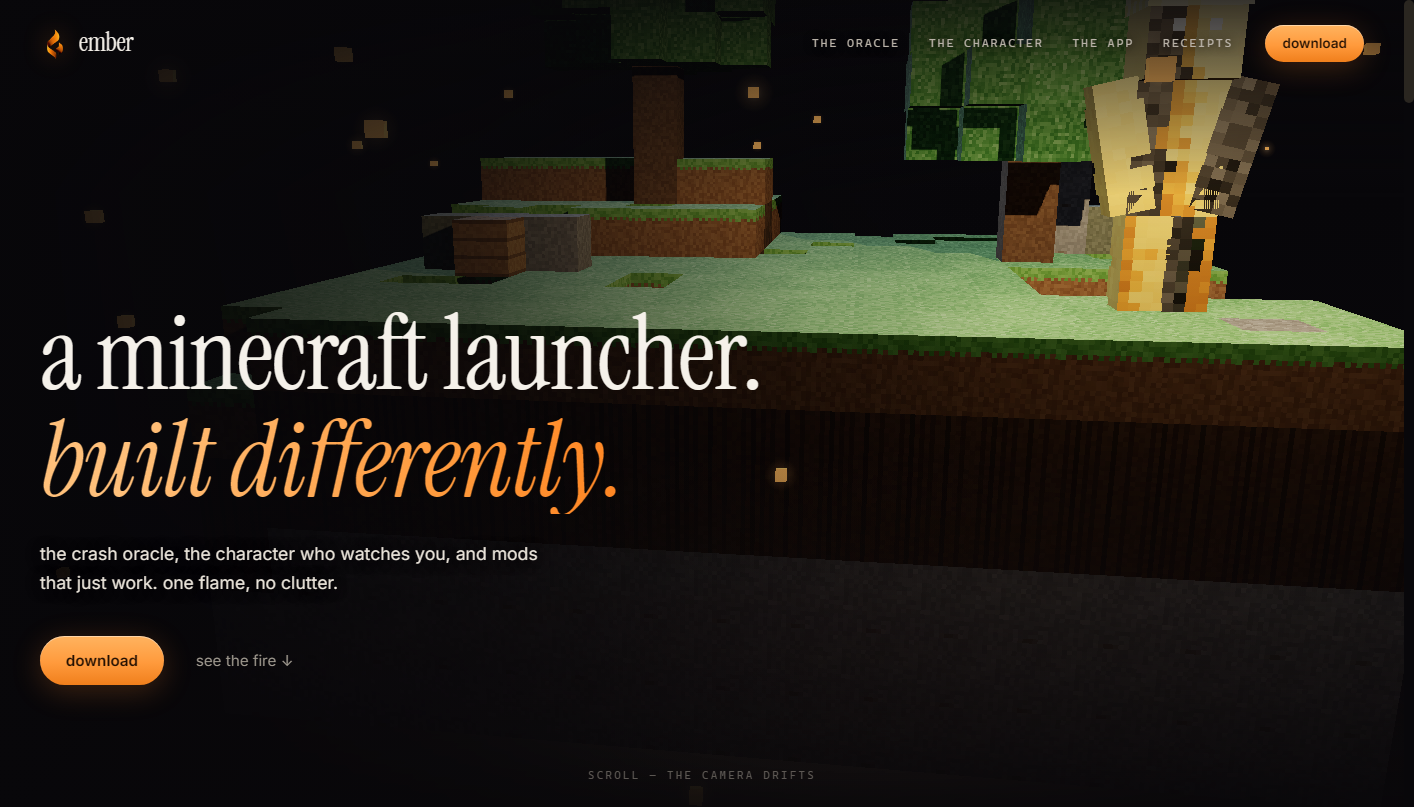
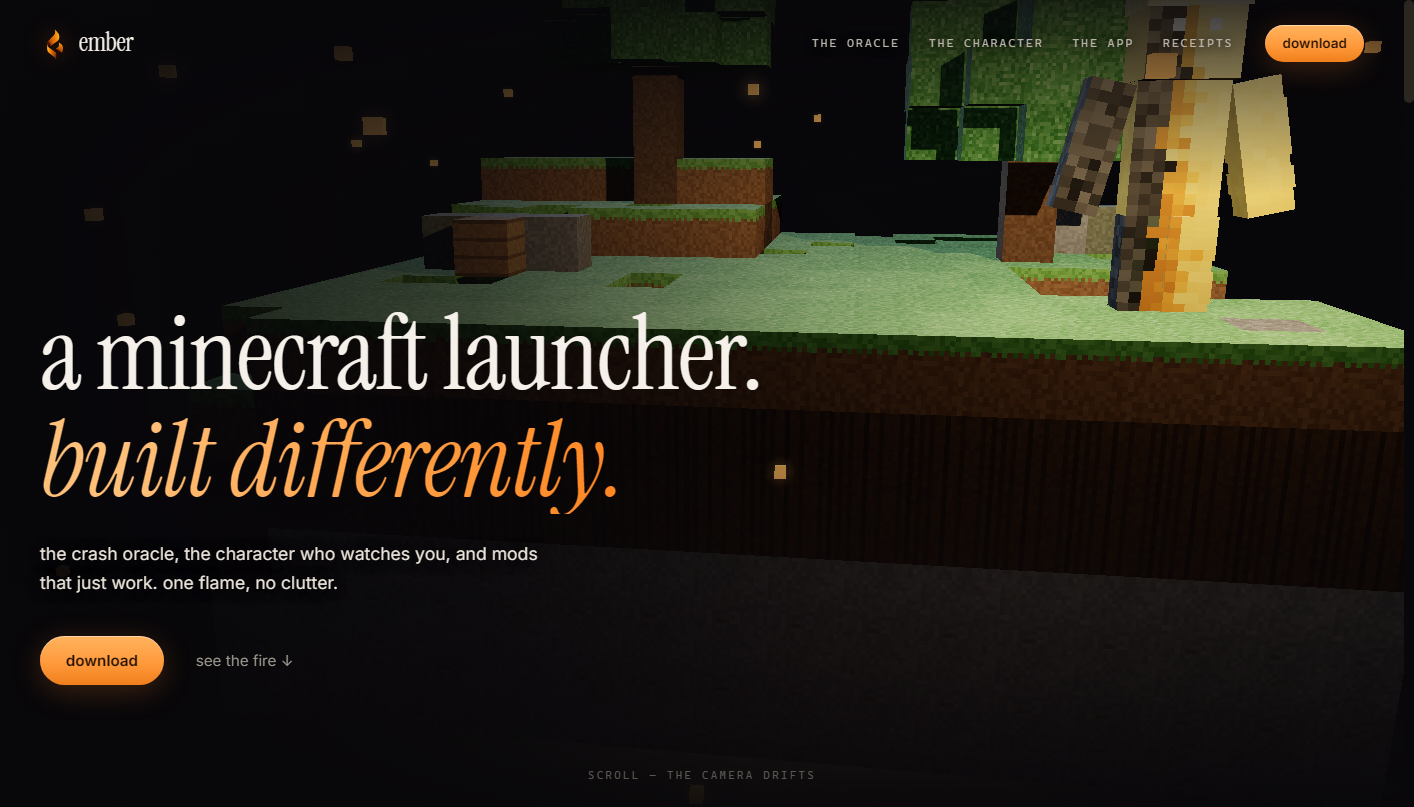
deploy: evidence refresh

Changed region(s): [[0.7157, 0.0929, 0.9335, 0.4027], [0.8091, 0.062, 0.8402, 0.0929], [0.2489, 0.1549, 0.2801, 0.1859]]

diff --git a/skinchar.js b/skinchar.js
@@ -106,7 +106,9 @@
     groups.head.add(headHat);
 
     ["armR", "armL"].forEach(function (k) {
-      var side = k === "armR" ? 1 : -1;
+      // HANDEDNESS: he faces +z; his RIGHT hand is at -x (viewer-left) —
+      // matching the launcher's own render. +1 here mirrored the whole rig.
+      var side = k === "armR" ? -1 : 1;
       // PIVOT AT THE SHOULDER (top of the arm) — rotating the group then swings
       // the arm naturally instead of detaching it (the rotate-around-center bug)
       groups[k].position.set(side * 0.375, 1.5, 0);
@@ -119,7 +121,7 @@
     });
 
     ["legR", "legL"].forEach(function (k) {
-      var side = k === "legR" ? 1 : -1;
+      var side = k === "legR" ? -1 : 1;   // same handedness fix as the arms
       groups[k].position.set(side * 0.125, 0.375, 0);
       groups[k].add(faceBox(RECTS[k], DIMS[k], skinMat, 1));
       groups[k].add(faceBox(RECTS[k + "Pant"], DIMS[k], overMat, 1.08));

diff --git a/scene.js b/scene.js
@@ -106,8 +106,8 @@
     groups = SC.groups;
     SC.root.position.set(5.4, 2.52, 5.2);
     SC.root.scale.set(2.4, 2.4, 2.4);
-    SC.groups.armR.rotation.z = -0.22;
-    SC.groups.armL.rotation.z = 0.22;
+    SC.groups.armR.rotation.z = -0.22;   // armR is at -x now → -z swings it OUT
+    SC.groups.armL.rotation.z = 0.22;    // armL is at +x → +z swings it OUT
     scene.add(SC.root);
 
     /* ---- sparse embers, drifting past the chunk ---- */
